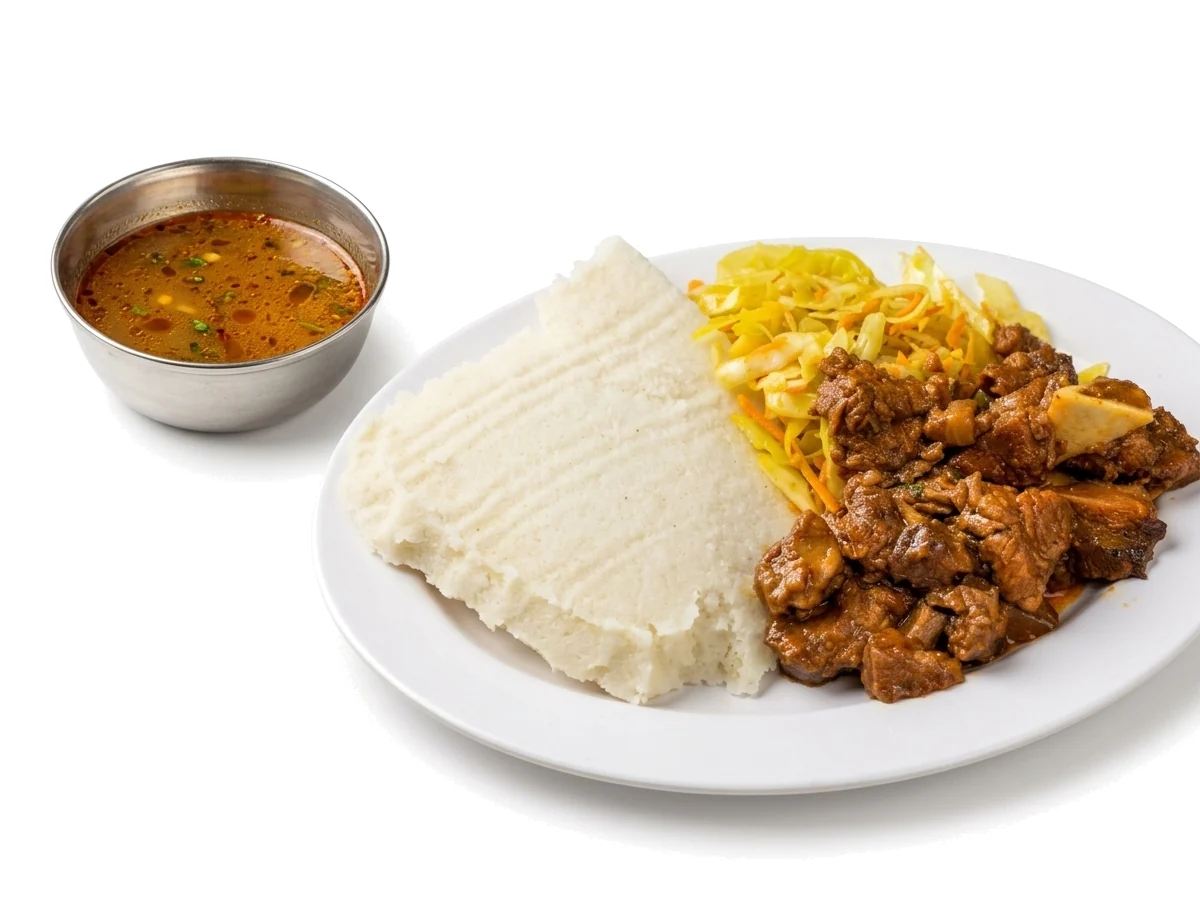
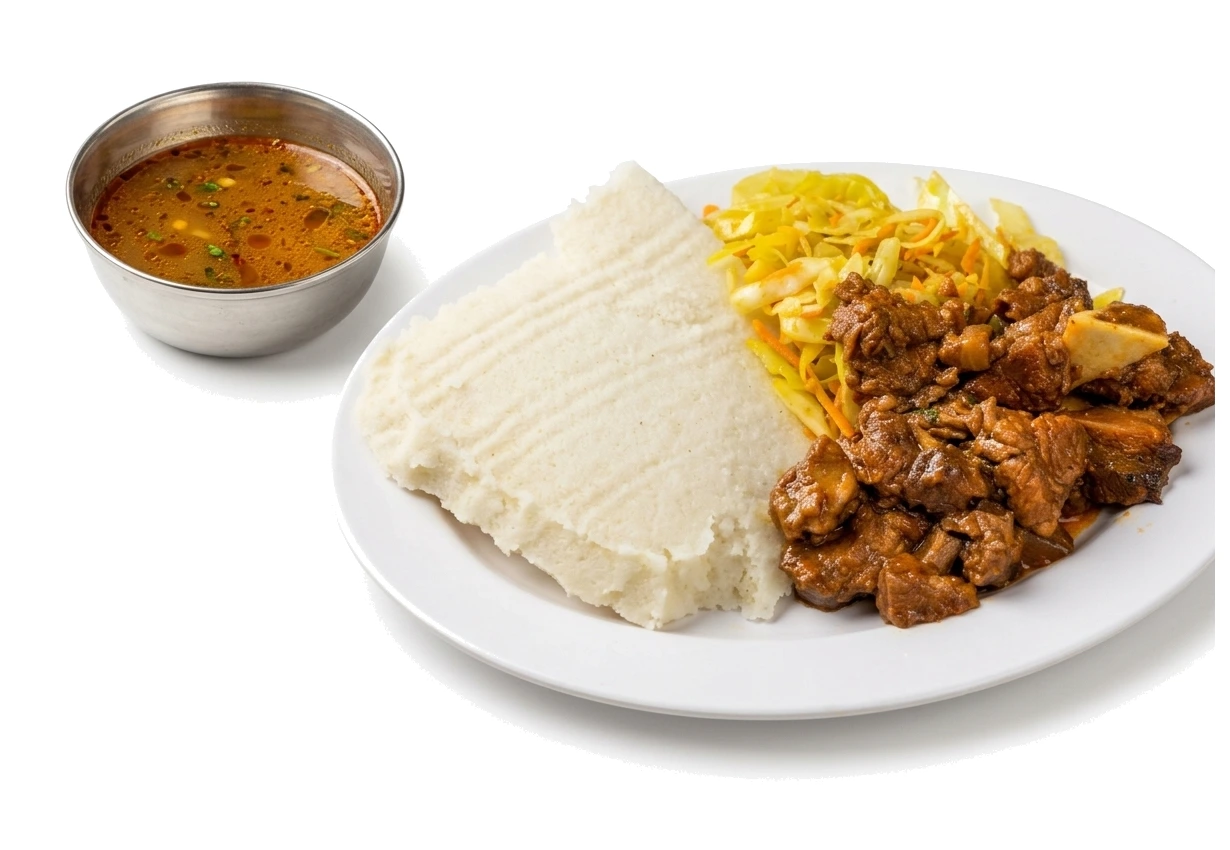
feat(images): frame goatstew100.webp tightly to boldly fill hero visual box

diff --git a/index.html b/index.html
@@ -675,7 +675,7 @@
         .main-dish-hero-visual img {
             width: 100%;
             height: 100%;
-            object-fit: contain;
+            object-fit: cover;
             object-position: center;
             display: block;
             border-radius: 0px !important;
@@ -2211,7 +2211,7 @@
                         </svg>
 
                         <div class="main-dish-hero-visual">
-                            <img src="goatstew100.webp?v=20260920_v1" alt="Goat Stew Combos" loading="lazy" decoding="async">
+                            <img src="goatstew100.webp?v=20260920_v2" alt="Goat Stew Combos" loading="lazy" decoding="async">
                         </div>
 
                         <div class="main-dish-details-pane">
@@ -2221,7 +2221,7 @@
                             <div class="main-dish-variants-stack">
                                 <div class="main-dish-variant-card" data-dish-name="Goat Stew / Fry with Ugali / Chapati" onclick="if(window.handleDirectDishSelect) handleDirectDishSelect(this, 'Goat Stew / Fry with Ugali / Chapati', '470/=', 'Goat Stew/Fry served with Ugali or Chapati', 'Main Dishes');">
                                     <div class="variant-info-group">
-                                        <img src="goatstew100.webp?v=20260920_v1" alt="Goat Stew with Ugali / Chapati" class="variant-thumb" loading="lazy">
+                                        <img src="goatstew100.webp?v=20260920_v2" alt="Goat Stew with Ugali / Chapati" class="variant-thumb" loading="lazy">
                                         <div class="variant-text">
                                             <h4 class="variant-name">Goat Stew with Ugali / Chapati</h4>
                                             <p class="variant-desc">Simmered tender goat meat served with ugali or hot chapati.</p>
@@ -3280,7 +3280,7 @@
         </div>
     </div>
 
-    <script src="app.js?v=20260920_v6"></script>
+    <script src="app.js?v=20260920_v7"></script>
     <script>
         // Automatic Real-Time Synchronization for Top Header Cart Badge
         (function() {

diff --git a/app.js b/app.js
@@ -156,7 +156,7 @@ function getDishImage(dishName, dishDesc) {
     if (textLower.includes('chemsha beef (1 kg)') || textLower.includes('chemsha beef 1 kg')) return 'beefchemsha1kg.webp';
     if (textLower.includes('beef fry / tumbukiza') || textLower.includes('beef tumbukiza') || textLower.includes('beef fry (1 kg)')) return 'tumbukizabeeffry1kg.webp';
     if (textLower.includes('special breakfast')) return 'Specialbreakfast.webp';
-    if (textLower.includes('goat stew') || textLower.includes('goat fry / stew') || textLower.includes('goat stew / fry')) return 'goatstew100.webp?v=20260920_v1';
+    if (textLower.includes('goat stew') || textLower.includes('goat fry / stew') || textLower.includes('goat stew / fry')) return 'goatstew100.webp?v=20260920_v2';
     if (textLower.includes('goat fry') || textLower.includes('goat tumbukiza')) return 'tumbukizagoatfry1kg.webp';
     if (textLower.includes('cappuccino')) return 'cappuccino_transparent.webp';
     if (textLower.includes('espresso (double)') || textLower.includes('espresso double') || textLower.includes('esspressodouble') || textLower.includes('espresso (cold)') || textLower.includes('espresso cold')) return 'esspressodouble.webp';
@@ -1159,7 +1159,7 @@ const RIBHOUSE_MASTER_DISHES = [
     "desc": "",
     "domId": "dish-goat-stew-fry",
     "id": "dish-goat-stew-fry",
-    "image": "goatstew100.webp?v=20260920_v1",
+    "image": "goatstew100.webp?v=20260920_v2",
     "name": "GOAT STEW / FRY",
     "price": "Price on request",
     "priceNum": 0
